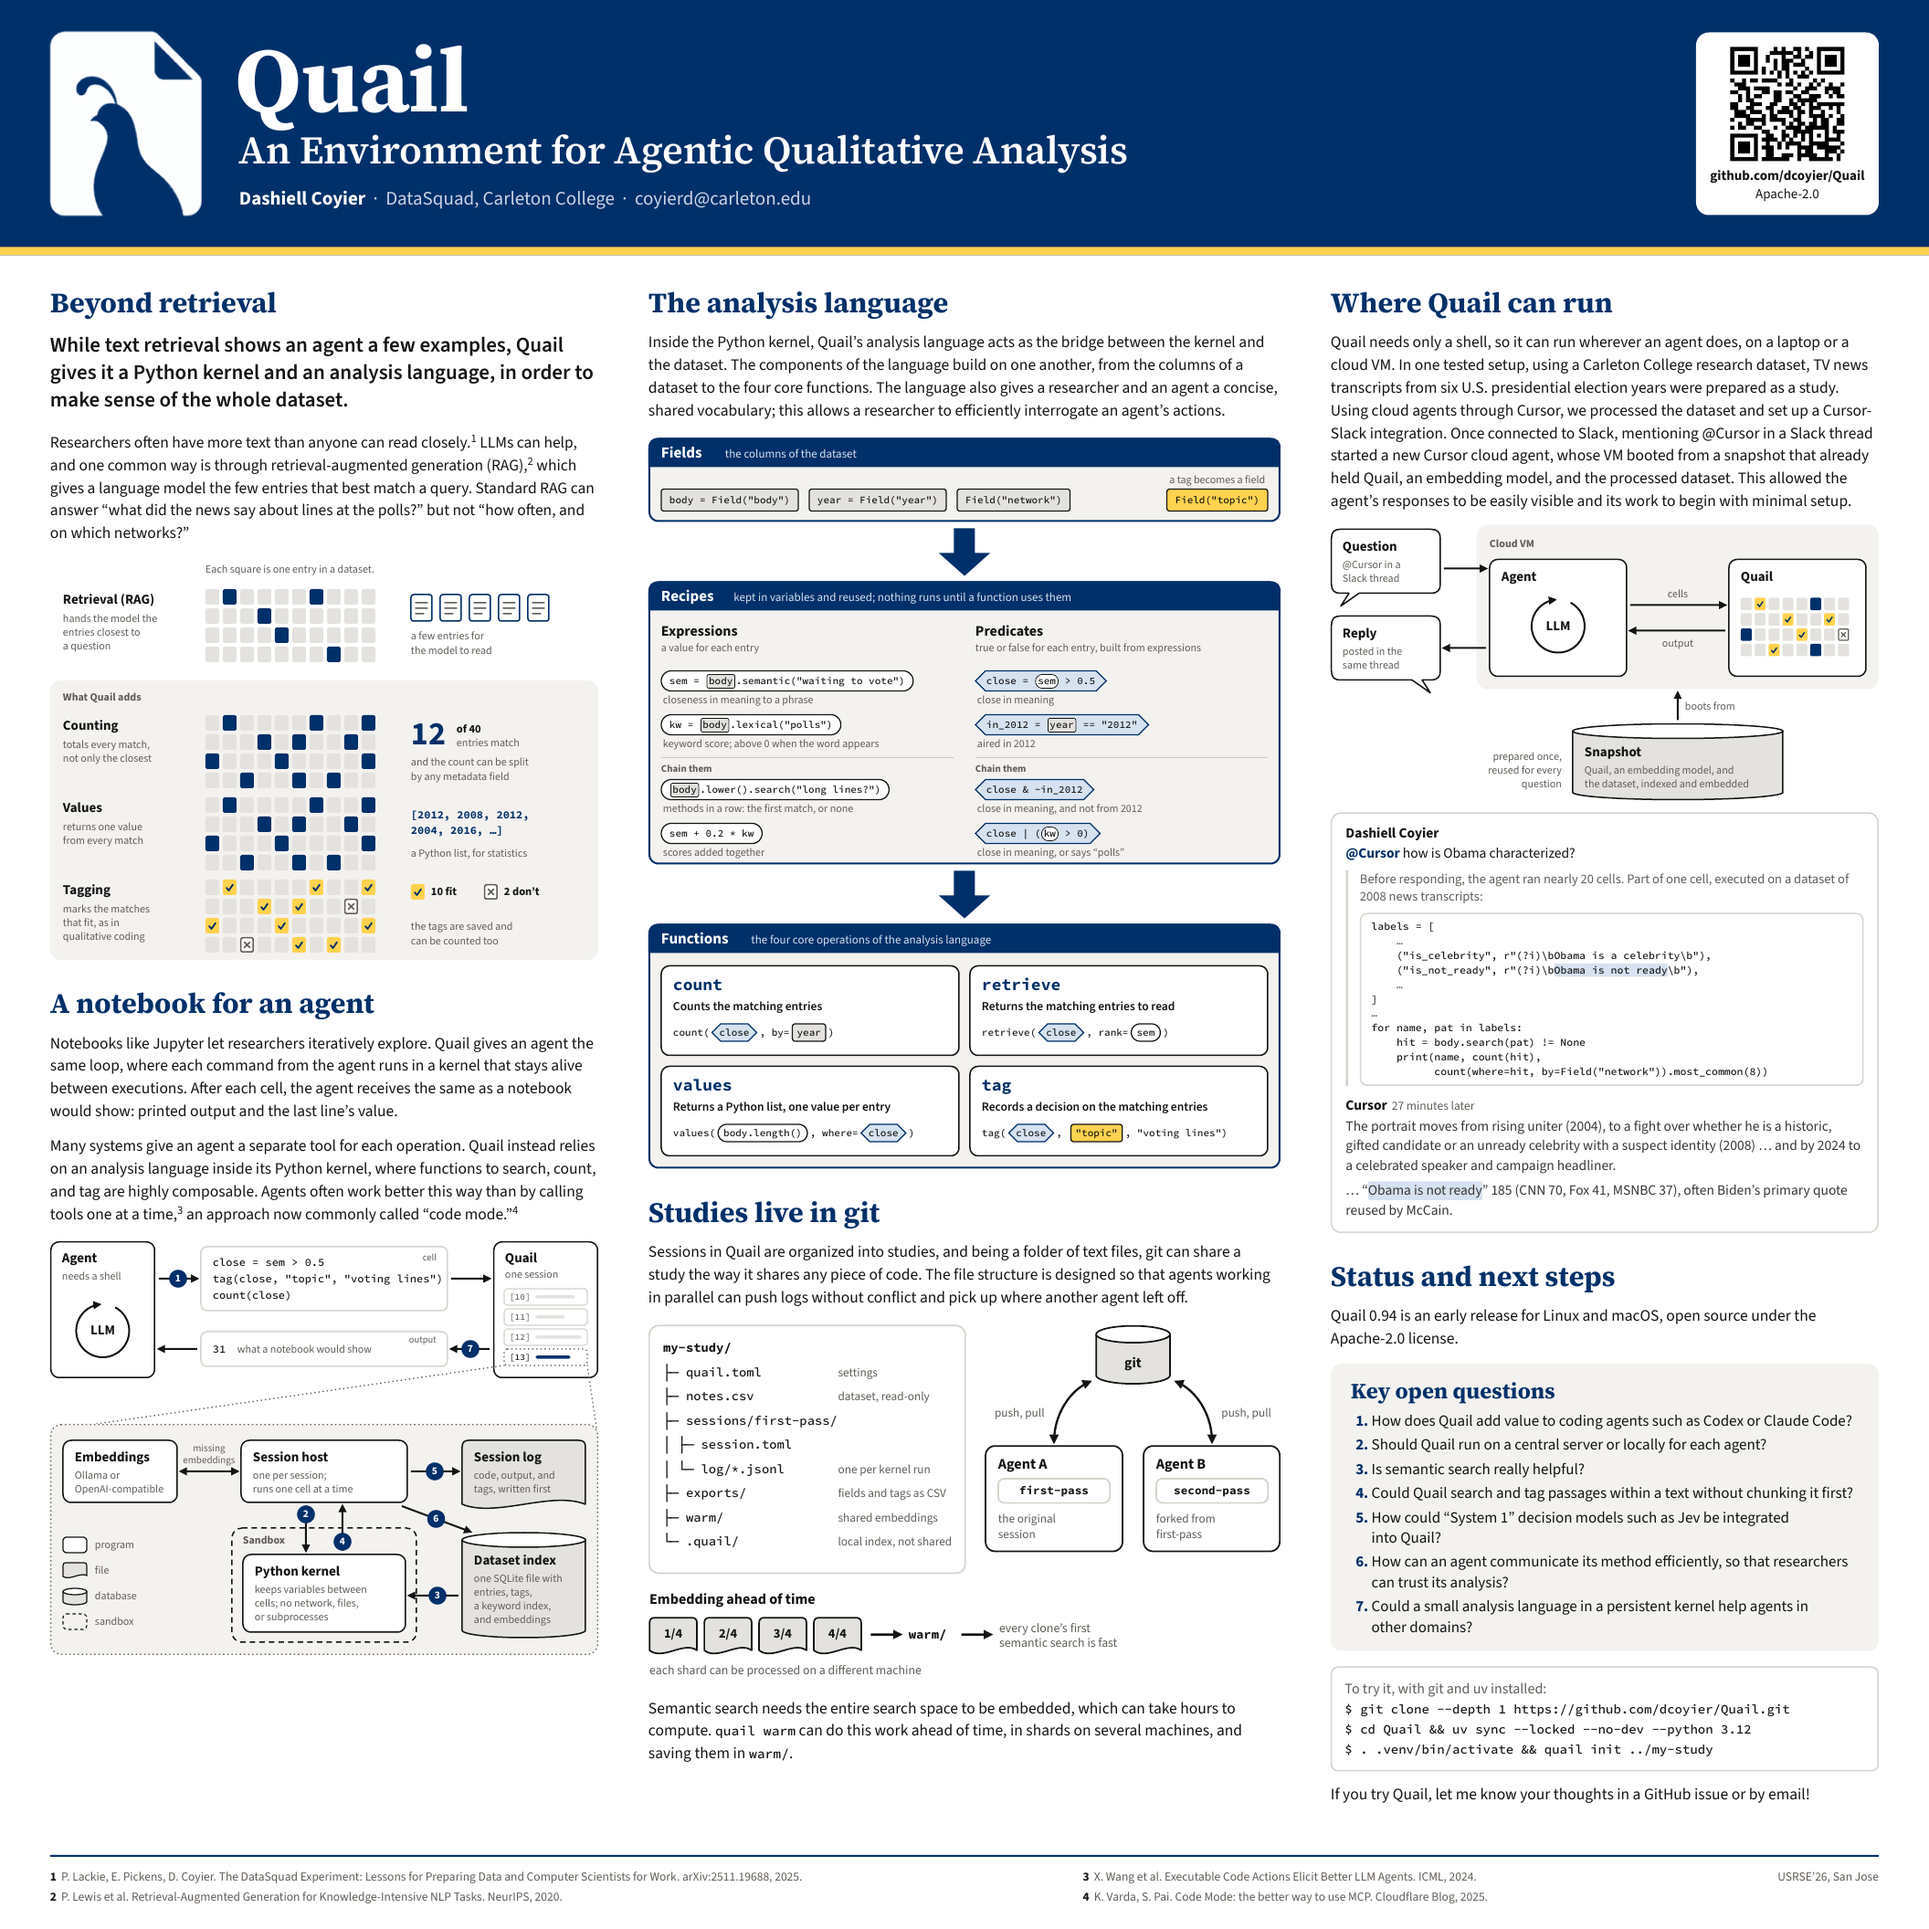
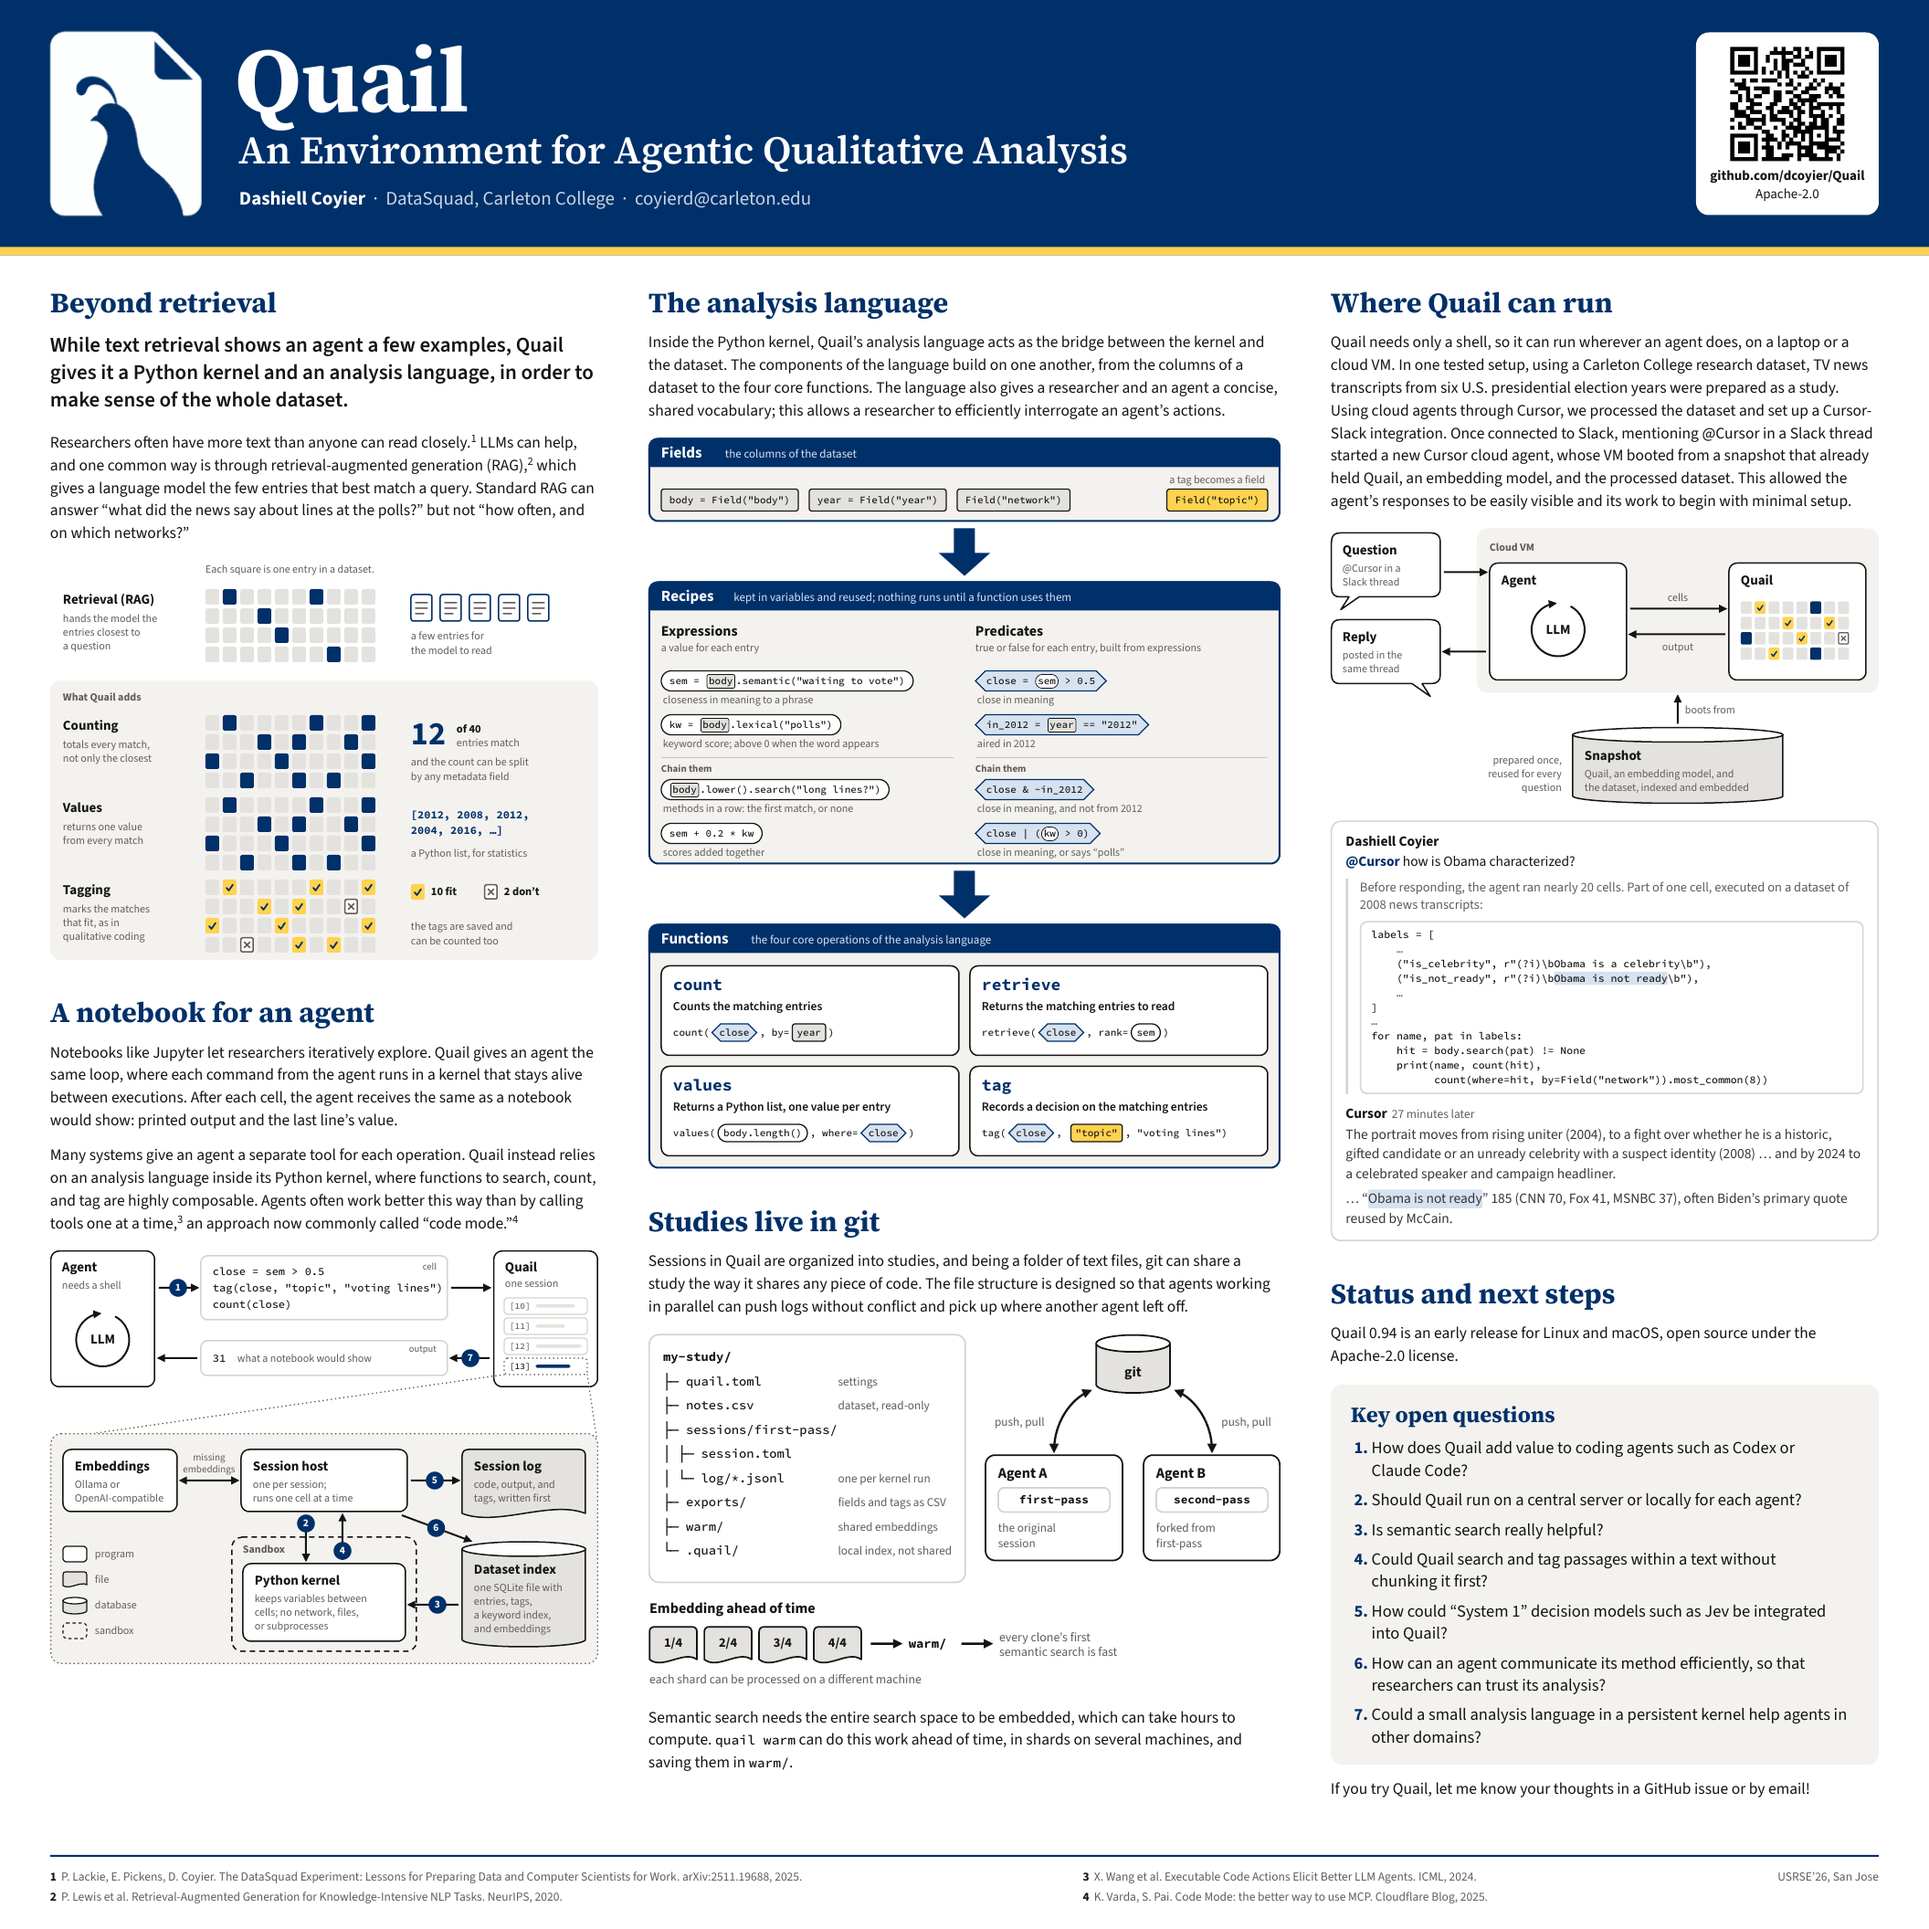
Drop the install box and restore the original spacing
The right column ends with the open questions and the closing line, which
leaves room for the questions at full size and the original section and
box spacing.

Claude-Session: https://claude.ai/code/session_01ChZ8DmmKvsKSV4JFVieZLU

diff --git a/poster/poster.css b/poster/poster.css
@@ -92,7 +92,7 @@ main {
   grid-template-columns: 1200px 1fr 1200px;
   column-gap: var(--gap);
 }
-.col { display: flex; flex-direction: column; gap: 64px; min-width: 0; min-height: 0; }
+.col { display: flex; flex-direction: column; gap: 84px; min-width: 0; min-height: 0; }
 
 section { min-width: 0; }
 
@@ -162,7 +162,6 @@ table.lang td:first-child { width: 600px; padding-right: 24px; font-family: var(
 .restart::before, .restart::after { content: ""; flex: 1; border-top: 3px dashed #BDB7B1; }
 .restart code { font-size: 25px; letter-spacing: 0; font-weight: 500; color: var(--ink-2); }
 
-#where figure { margin: 24px 0; }
 .nowrap { white-space: nowrap; }
 
 /* Slack excerpt */
@@ -186,14 +185,14 @@ table.lang td:first-child { width: 600px; padding-right: 24px; font-family: var(
 
 /* open questions, set apart to invite conversation */
 .questions {
-  margin: 28px 0 24px;
+  margin: 36px 0 30px;
   background: var(--fill);
   border-radius: 24px;
-  padding: 26px 44px 28px;
+  padding: 32px 44px 34px;
 }
-.questions h3 { margin: 0 0 10px; font-family: var(--display); font-size: 48px; font-weight: 700; letter-spacing: 0; color: var(--blue); }
+.questions h3 { margin: 0 0 16px; font-family: var(--display); font-size: 48px; font-weight: 700; letter-spacing: 0; color: var(--blue); }
 .questions ol { margin: 0; padding-left: 1.3em; }
-.questions li { margin: 0 0 8px; font-size: 34px; line-height: 1.32; }
+.questions li { margin: 0 0 16px; font-size: 37px; line-height: 1.32; }
 .questions li:last-child { margin-bottom: 0; }
 .questions li::marker { font-weight: 700; color: var(--blue); }
 

diff --git a/poster/poster.html b/poster/poster.html
@@ -101,10 +101,6 @@ for name, pat in labels:
       <li>Could a small analysis language in a persistent kernel help agents in other&nbsp;domains?</li>
     </ol>
   </div>
-  <div class="term"><span class="cmt">To try it, with git and uv installed:</span>
-$ git clone --depth 1 https://github.com/dcoyier/Quail.git
-$ cd Quail &amp;&amp; uv sync --locked --no-dev --python 3.12
-$ . .venv/bin/activate &amp;&amp; quail init ../my-study</div>
   <p class="after-term">If you try Quail, let me know your thoughts in a GitHub issue or by&nbsp;email!</p>
 </section>
 
